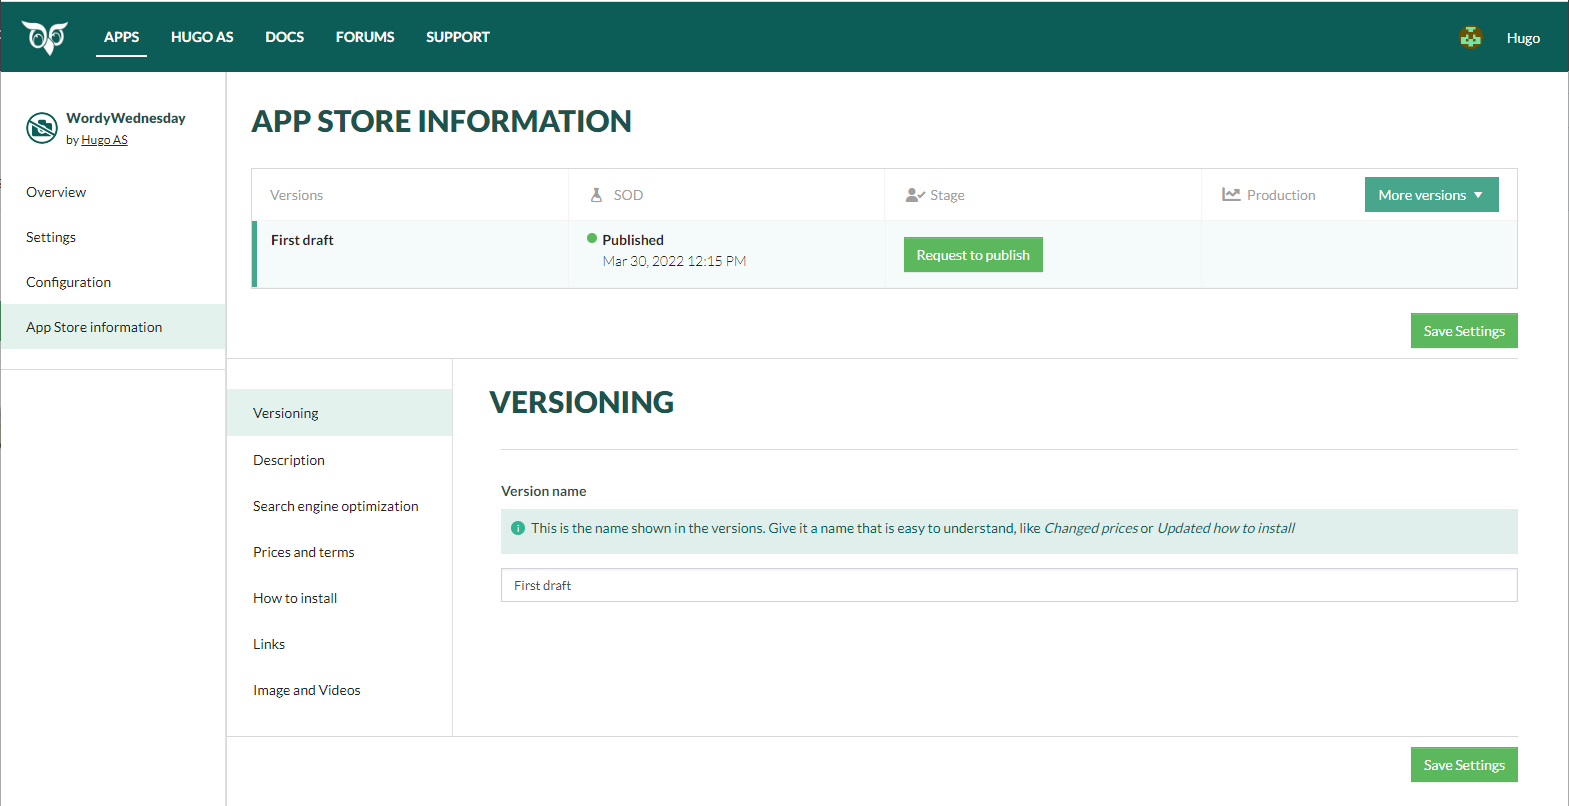
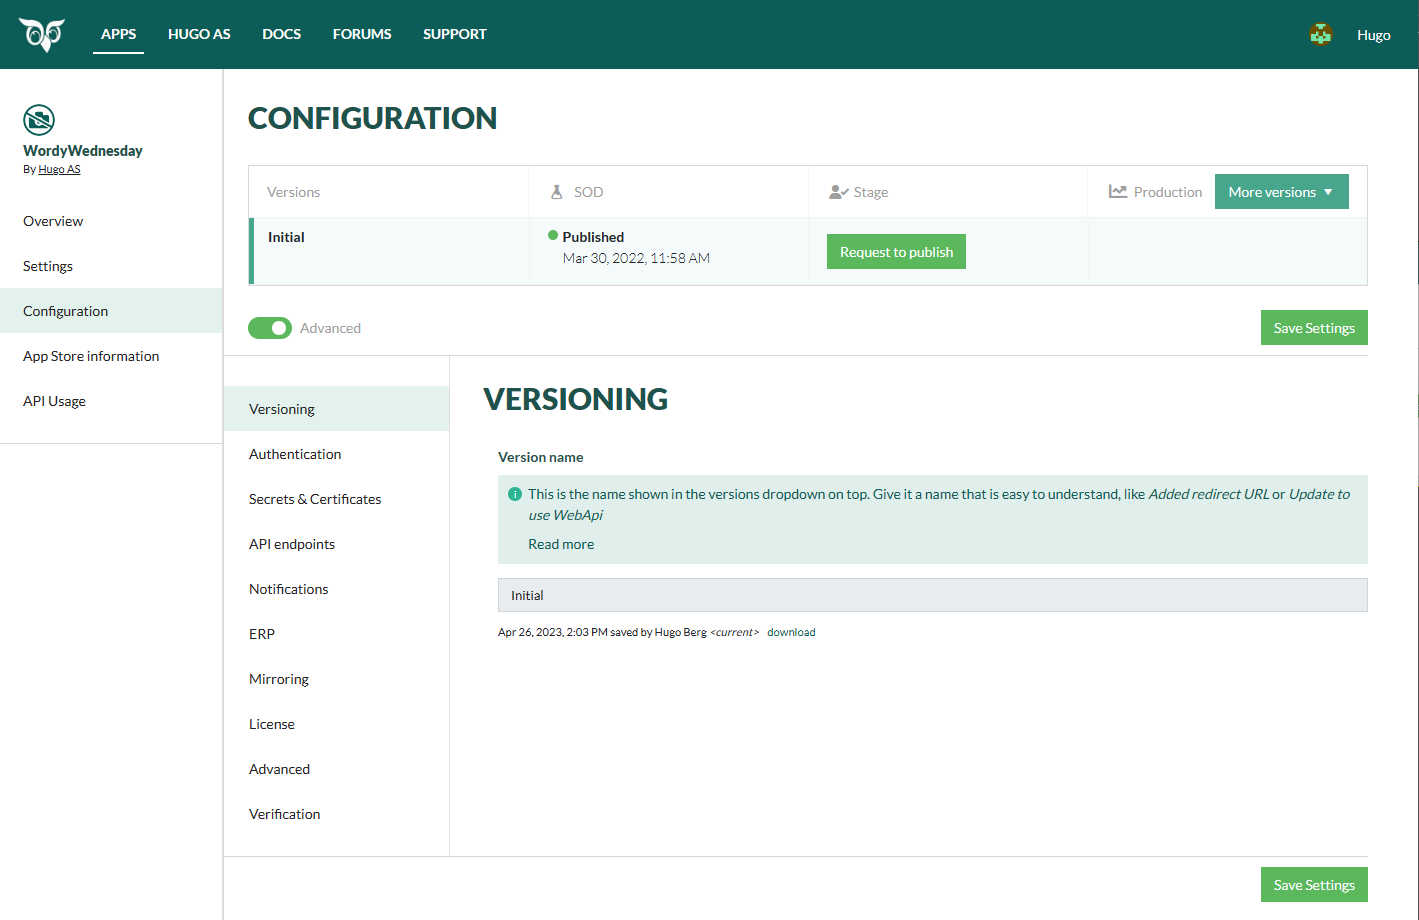
#670 updated screenshots showing versions

diff --git a/docs/en/developer-portal/versioning.md b/docs/en/developer-portal/versioning.md
@@ -3,10 +3,10 @@ title: Versioning
 uid: dp-versioning
 description: Introduction to versioned information and configuration in the SuperOffice Online Developer Portal and how it relates to our different environments (SOD, Stage, Production).
 author: Bergfrid Dias
-so.date: 06.09.2022
+so.date: 04.26.2023
 keywords: developer, Developer Portal, apps, app-store
 so.topic: concept
-so.version:
+so.dp-version: 1.10
 so.envir: cloud
 so.client:
 ---

diff --git a/docs/en/developer-portal/howto/request-to-publish.md b/docs/en/developer-portal/howto/request-to-publish.md
@@ -1,12 +1,12 @@
 ---
-title: Update app-specific page
+title: Request to publish
 uid: dp-request-publish
 description: How to request to publish App Store Information and application configuration the SuperOffice Developer Portal.
 author: Bergfrid Dias
-so.date: 06.09.2022
+so.date: 04.26.2023
 keywords: Developer Portal, publish
 so.topic: howto
-so.version:
+so.dp-version: 1.10
 so.envir: cloud
 so.client: online
 ---
